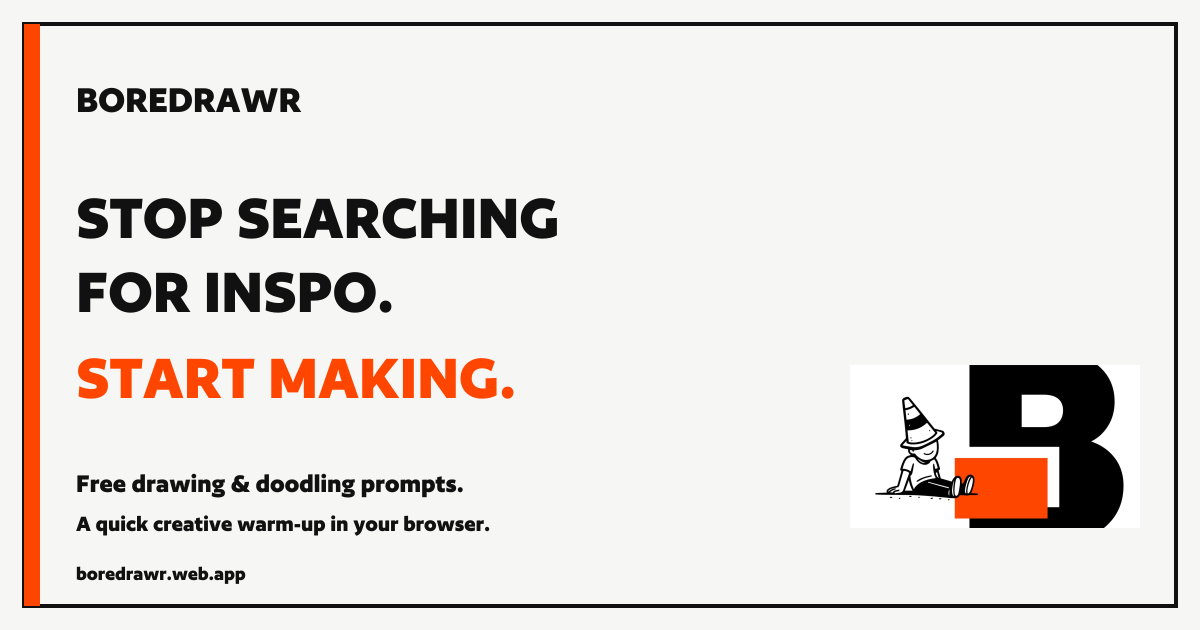
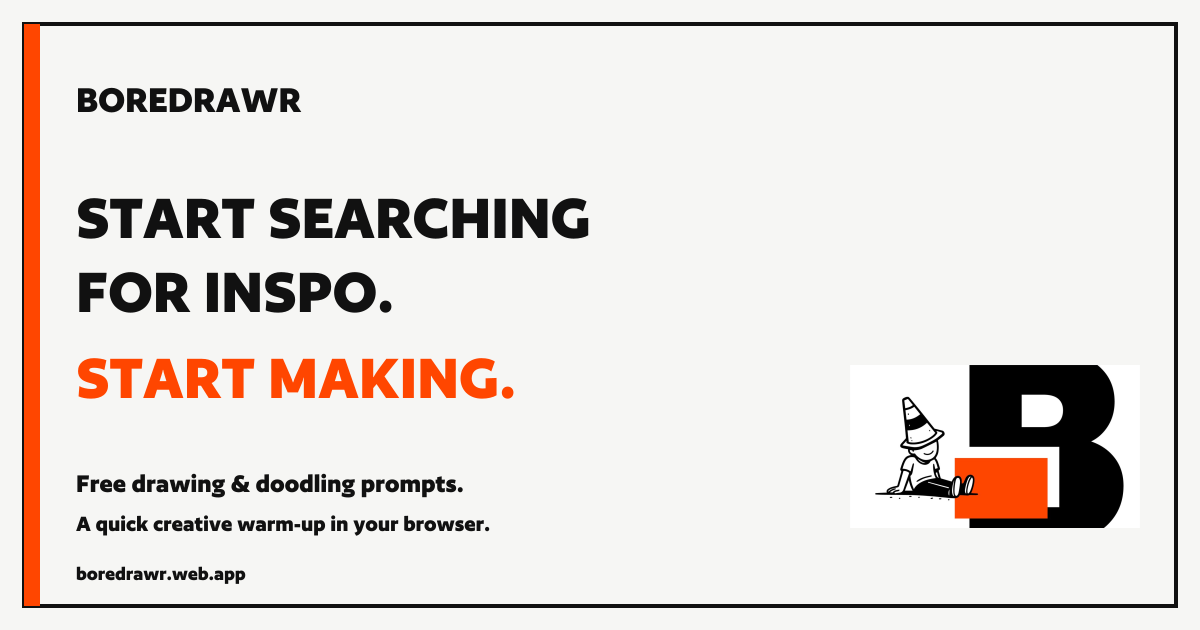
Unify brand phrase and give homepage intro its full available width

Changed region(s): [[0.1233, 0.3016, 0.4933, 0.3921]]

diff --git a/index.html b/index.html
@@ -17,7 +17,7 @@
 <link rel="canonical" href="https://boredrawr.web.app/">
 <meta property="og:type" content="website">
 <meta property="og:site_name" content="Boredrawr">
-<meta property="og:title" content="Boredrawr — Stop searching for inspo. Start making.">
+<meta property="og:title" content="Boredrawr — Start searching for inspo. Start making.">
 <meta property="og:description" content="One random prompt. A short timer. Something you make. Try free drawing and doodling prompts, or explore writing and any medium. No sign-up needed.">
 <meta property="og:url" content="https://boredrawr.web.app/">
 <meta property="og:image" content="https://boredrawr.web.app/img/boredrawr-social.png">
@@ -25,12 +25,12 @@
 <meta property="og:image:height" content="630">
 <meta property="og:image:alt" content="Boredrawr — free drawing and doodling prompts for timed creative exercises.">
 <meta name="twitter:card" content="summary_large_image">
-<meta name="twitter:title" content="Boredrawr — Stop searching for inspo. Start making.">
+<meta name="twitter:title" content="Boredrawr — Start searching for inspo. Start making.">
 <meta name="twitter:description" content="Free drawing and doodling prompts for a quick creative warm-up. Choose a timer and start making. No sign-up needed.">
 <meta name="twitter:image" content="https://boredrawr.web.app/img/boredrawr-social.png">
 <meta name="twitter:image:alt" content="Boredrawr — free drawing and doodling prompts for timed creative exercises.">
 <link rel="icon" type="image/png" href="img/favicon.png">
-<link rel="stylesheet" href="css/styles.css?v=30703cfbdc">
+<link rel="stylesheet" href="css/styles.css?v=89c30eb4c3">
 <script type="application/ld+json">
 {
   "@context": "https://schema.org",
@@ -79,7 +79,7 @@
 <main id="top">
 <div class="hero">
   <div>
-    <h1>Stop searching. Start making.</h1>
+    <h1>Start searching for inspo. Start making.</h1>
     <p class="intro">Free random prompts for drawing and doodling. Choose your time limit and start making.</p>
   </div>
 

diff --git a/css/styles.css b/css/styles.css
@@ -59,7 +59,7 @@ footer{padding:10px 0 clamp(14px,3vh,28px);color:var(--muted);font-size:.85rem;d
 @media (prefers-reduced-motion:reduce){*{transition:none!important}}
 
 /* Descriptive copy and information stay separate from the prompt controls. */
-.intro{margin:8px 0 0;color:var(--muted);font-size:clamp(.9rem,1.7vh,1rem);line-height:1.4;max-width:65ch}
+.intro{margin:8px 0 0;color:var(--muted);font-size:clamp(.9rem,1.7vh,1rem);line-height:1.4;max-width:100%}
 .panel .field-label{text-transform:none;line-height:1.4;letter-spacing:normal}
 .faq{background:var(--bg);padding:clamp(24px,4vh,40px) 40px}
 .faq h2{margin-bottom:20px;font-size:clamp(1.3rem,3vw,2rem)}
@@ -68,3 +68,5 @@ footer{padding:10px 0 clamp(14px,3vh,28px);color:var(--muted);font-size:.85rem;d
 .faq summary:focus-visible{outline:3px solid var(--orange);outline-offset:4px}
 .faq p{margin:12px 0 0;max-width:68ch;line-height:1.5}
 @media(max-width:820px){.faq{padding:24px 20px}}
+
+.hero h1{text-wrap:balance}

diff --git a/README.md b/README.md
@@ -36,3 +36,7 @@ No build step is needed. Push to `main` to publish to Firebase Hosting through G
 The homepage includes an English title and description focused on drawing and doodling, canonical URL, Open Graph and Twitter card metadata, and WebSite/WebApplication structured data. `robots.txt` references the one-page `sitemap.xml`. The error page has `noindex`.
 
 Google Search Console verification and indexing requests are managed separately from Analytics. The Google Analytics measurement ID is `G-VSSH24MEQZ`.
+
+## Brand wording
+
+Use “Start searching for inspo. Start making.” consistently in the homepage and social sharing materials. Drawing and doodling remain the primary focus.
